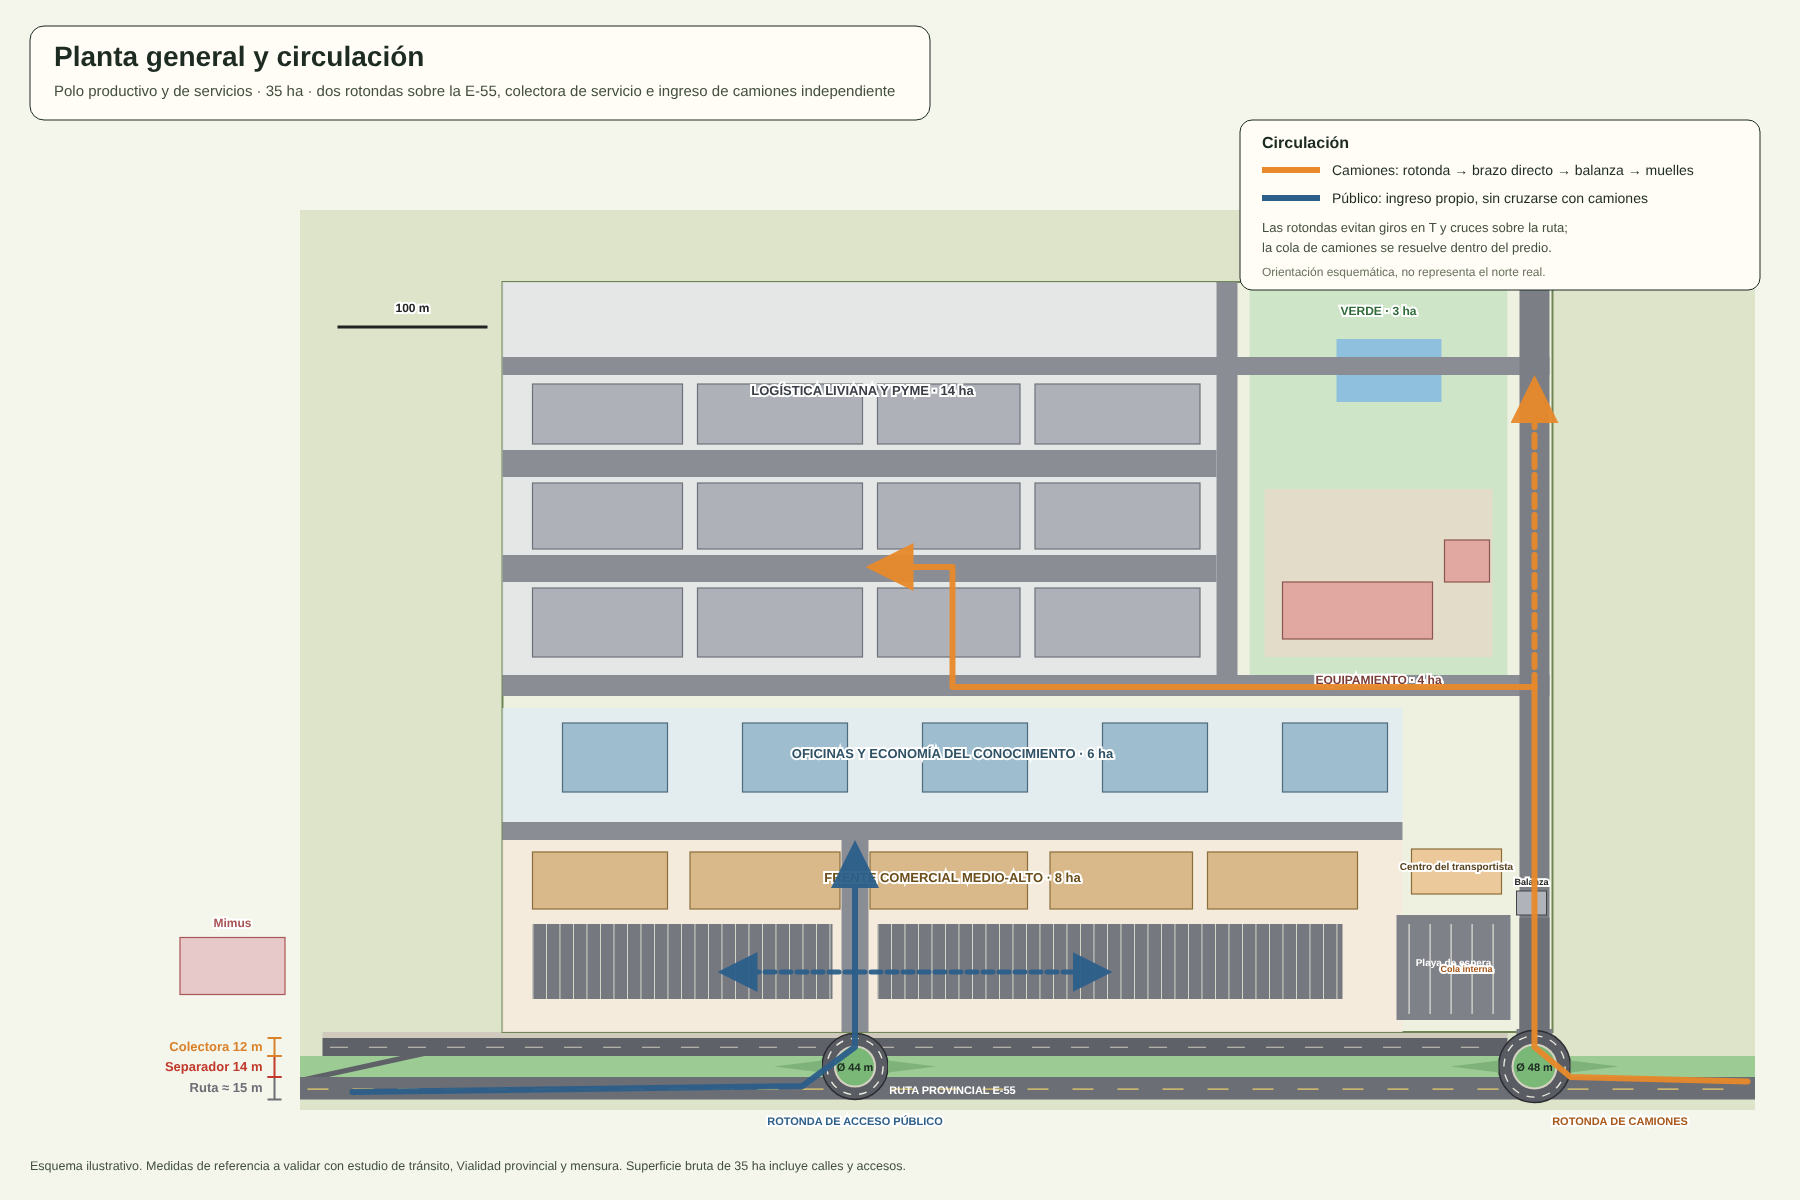
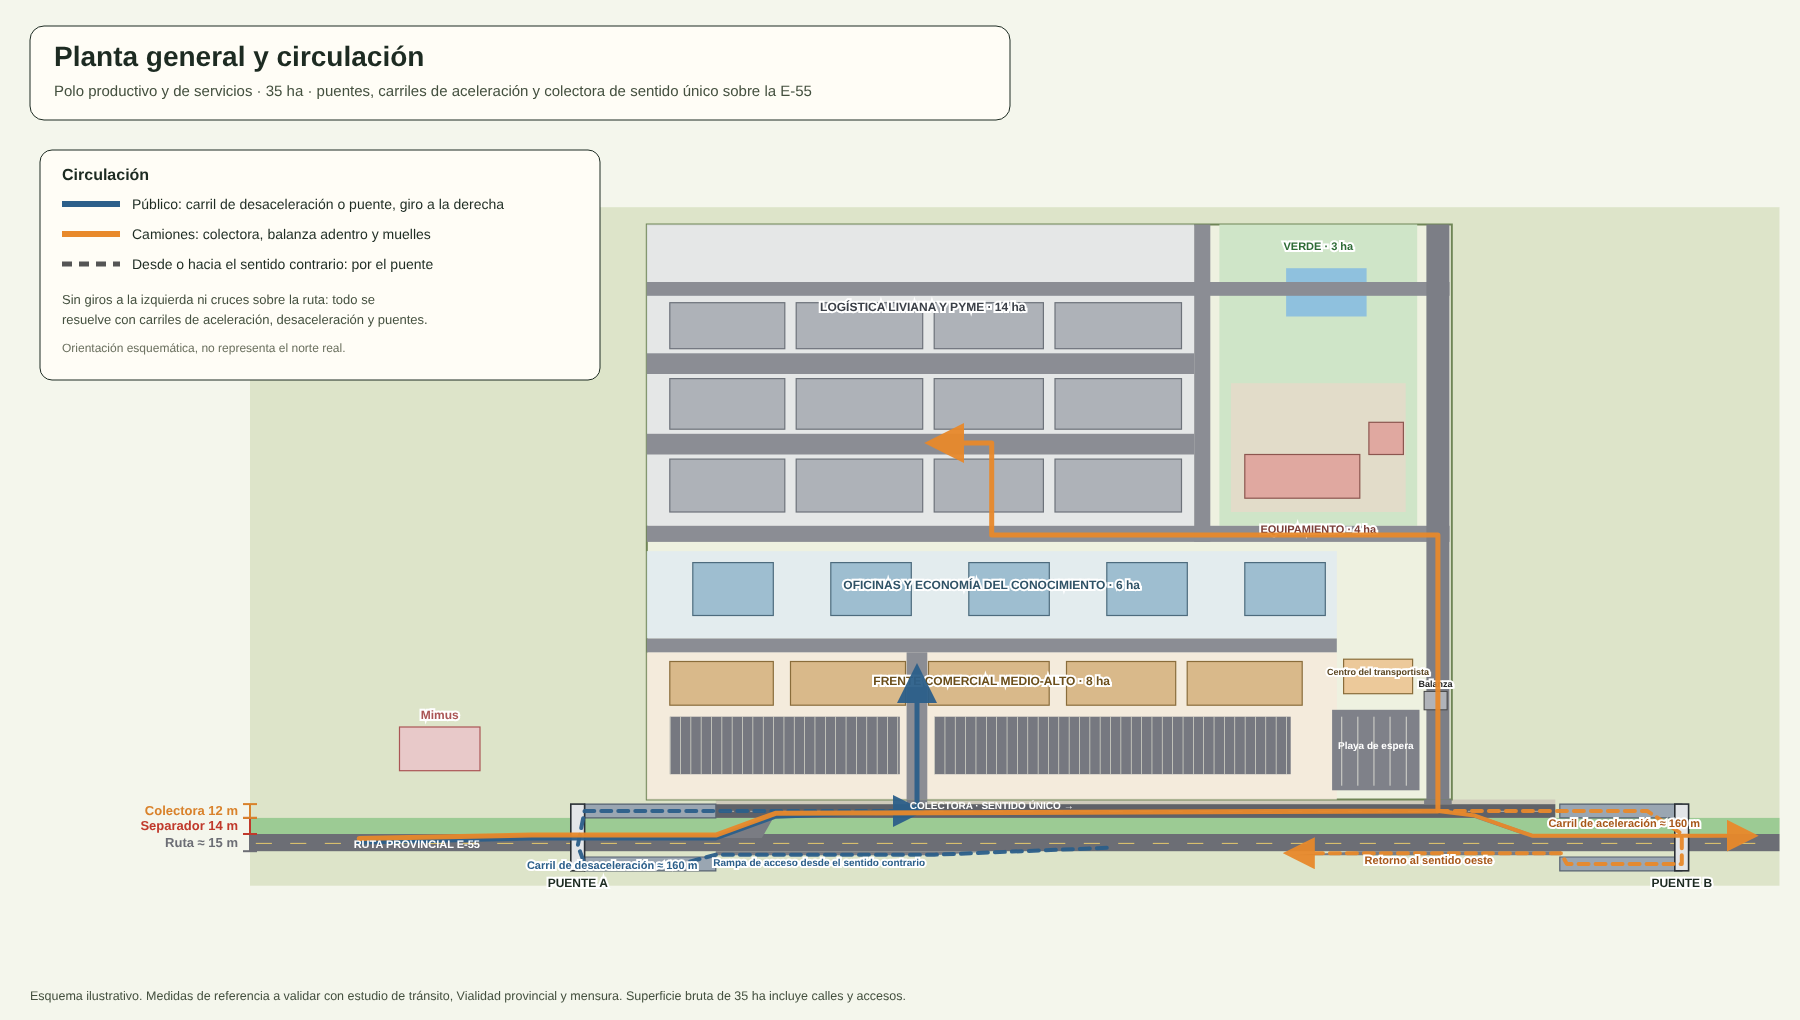
Accesos a distinto nivel (puentes y colectora de sentido unico) en los renders del polo
Claude-Session: https://claude.ai/code/session_01YQEUyieFzvc6eZxAEjGn6A

diff --git a/parque-35ha.html b/parque-35ha.html
@@ -180,7 +180,7 @@ h3{font-family:'Syne',sans-serif;font-size:1rem;font-weight:700;color:#fff;margi
     <div class="section-tag aos">Condiciones</div>
     <h2 class="aos">Lo que hay que resolver antes de vender una sola hectárea.</h2>
     <p class="section-intro aos">Cada una de estas condiciones puede cambiar el proyecto. Son el primer punto de la agenda si la gestión llega a cargo del municipio.</p>
-    <div class="sm-features"><div class="sm-feat aos"><div class="sm-feat-title">💧 Agua</div><div class="sm-feat-desc">La Calera tiene un problema de abastecimiento. El polo solo admite industria seca y logística, con evaluación ambiental obligatoria y reuso donde se pueda. Sin factibilidad de agua firmada no se habilita ningún lote.</div></div><div class="sm-feat aos"><div class="sm-feat-title">⚡ Energía y gas</div><div class="sm-feat-desc">Se necesita factibilidad de EPEC para potencia trifásica y de la distribuidora de gas. Pedirla temprano evita costos ocultos.</div></div><div class="sm-feat aos"><div class="sm-feat-title">🏨 Vecino Mimus</div><div class="sm-feat-desc">El frente comercial medio-alto convive con un alojamiento transitorio al lado. Conviene una cortina verde y un diseño de acceso que separe imagen y tránsito.</div></div><div class="sm-feat aos"><div class="sm-feat-title">📜 Suelo y zonificación</div><div class="sm-feat-desc">Hay que verificar quién es el titular del suelo, el uso actual y la cota de inundación. Si es privado, la herramienta es un convenio urbanístico con contrapartidas; si es público, un banco de tierras con concesión o venta por etapas.</div></div><div class="sm-feat aos"><div class="sm-feat-title">🔄 Accesos sin giros en T</div><div class="sm-feat-desc">Un empalme en T sobre una ruta con mucho tránsito genera frenadas y cruces peligrosos. Se proponen dos rotondas sobre la E-55, una para el público y otra para camiones, con brazo directo al predio y balanza adentro para que la cola no vuelva a la ruta. Hay que validarlo con un estudio de tránsito y con Vialidad provincial.</div></div><div class="sm-feat aos"><div class="sm-feat-title">🏭 Ley 7.255</div><div class="sm-feat-desc">Para que las radicaciones industriales accedan a beneficios provinciales conviene tramitar la aprobación como parque. Hay que confirmar las exenciones vigentes con el Ministerio de Industria.</div></div></div>
+    <div class="sm-features"><div class="sm-feat aos"><div class="sm-feat-title">💧 Agua</div><div class="sm-feat-desc">La Calera tiene un problema de abastecimiento. El polo solo admite industria seca y logística, con evaluación ambiental obligatoria y reuso donde se pueda. Sin factibilidad de agua firmada no se habilita ningún lote.</div></div><div class="sm-feat aos"><div class="sm-feat-title">⚡ Energía y gas</div><div class="sm-feat-desc">Se necesita factibilidad de EPEC para potencia trifásica y de la distribuidora de gas. Pedirla temprano evita costos ocultos.</div></div><div class="sm-feat aos"><div class="sm-feat-title">🏨 Vecino Mimus</div><div class="sm-feat-desc">El frente comercial medio-alto convive con un alojamiento transitorio al lado. Conviene una cortina verde y un diseño de acceso que separe imagen y tránsito.</div></div><div class="sm-feat aos"><div class="sm-feat-title">📜 Suelo y zonificación</div><div class="sm-feat-desc">Hay que verificar quién es el titular del suelo, el uso actual y la cota de inundación. Si es privado, la herramienta es un convenio urbanístico con contrapartidas; si es público, un banco de tierras con concesión o venta por etapas.</div></div><div class="sm-feat aos"><div class="sm-feat-title">🌉 Accesos a distinto nivel, sin giros en T</div><div class="sm-feat-desc">Un empalme en T o una rotonda sobre una ruta de mucho tránsito frena el flujo. Se proponen dos puentes de retorno sobre la E-55, carriles de aceleración y desaceleración largos y una colectora de sentido único de 12 m, para que todos los giros sean a la derecha. Hay que validarlo con un estudio de tránsito y con Vialidad provincial, y presupuestar las obras sobre la ruta.</div></div><div class="sm-feat aos"><div class="sm-feat-title">🏭 Ley 7.255</div><div class="sm-feat-desc">Para que las radicaciones industriales accedan a beneficios provinciales conviene tramitar la aprobación como parque. Hay que confirmar las exenciones vigentes con el Ministerio de Industria.</div></div></div>
   </div>
 </div>
 <div class="alt-bg">
@@ -195,10 +195,11 @@ h3{font-family:'Syne',sans-serif;font-size:1rem;font-weight:700;color:#fff;margi
   <div class="section">
     <div class="section-tag aos">Renders</div>
     <h2 class="aos">Cómo se vería el polo.</h2>
-    <p class="section-intro aos">Imágenes esquemáticas e ilustrativas, no son un proyecto. Muestran dos rotondas sobre la E-55 (una para el público y otra para camiones), una colectora de 12 m de servicio local y el ingreso de camiones separado del público.</p>
+    <p class="section-intro aos">Imágenes esquemáticas e ilustrativas, no son un proyecto. Muestran dos puentes de retorno sobre la E-55, carriles de aceleración y desaceleración, una colectora de sentido único de 12 m y el ingreso de camiones separado del público.</p>
     <div style="display:grid;gap:1.5rem;">
       <img class="aos" src="img/polo-vista-general.png" alt="Vista general del polo desde la ruta E-55" style="width:100%;border-radius:12px;border:1px solid var(--border);" loading="lazy">
-      <img class="aos" src="img/polo-ingreso-camiones.png" alt="Detalle del ingreso de camiones" style="width:100%;border-radius:12px;border:1px solid var(--border);" loading="lazy">
+      <img class="aos" src="img/polo-nodo-este-camiones.png" alt="Nodo este: ingreso y salida de camiones" style="width:100%;border-radius:12px;border:1px solid var(--border);" loading="lazy">
+      <img class="aos" src="img/polo-nodo-oeste-publico.png" alt="Nodo oeste: ingreso del público" style="width:100%;border-radius:12px;border:1px solid var(--border);" loading="lazy">
       <img class="aos" src="img/polo-vista-este.png" alt="Vista desde el este" style="width:100%;border-radius:12px;border:1px solid var(--border);" loading="lazy">
       <img class="aos" src="img/polo-planta.png" alt="Planta general y circulación" style="width:100%;border-radius:12px;border:1px solid var(--border);" loading="lazy">
       <img class="aos" src="img/polo-corte-colectora.png" alt="Corte tipo de la colectora" style="width:100%;border-radius:12px;border:1px solid var(--border);" loading="lazy">
